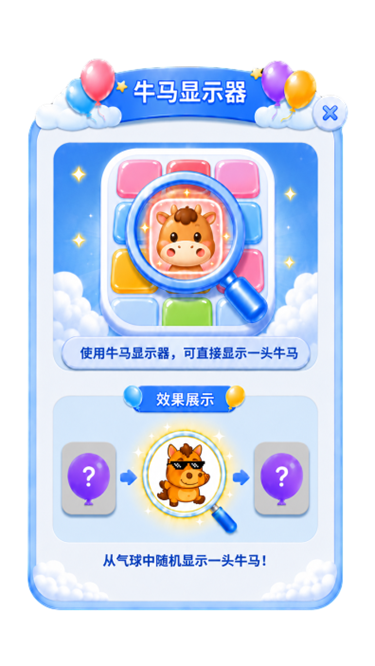
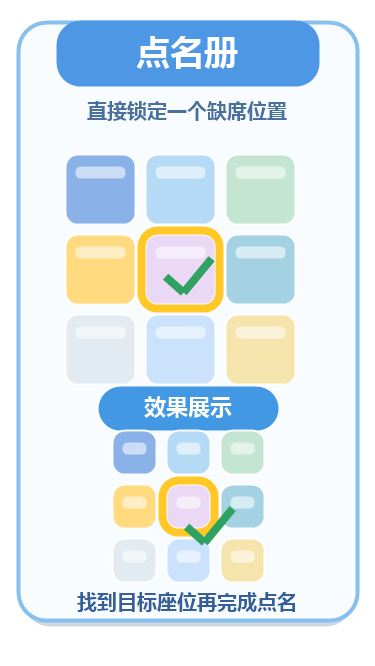
修复点名提示弹窗与失败页样式

diff --git a/assets/DrawGridModules/DrawGridHud.ts b/assets/DrawGridModules/DrawGridHud.ts
@@ -1684,7 +1684,7 @@ export function installDrawGridHud(target: any): void {
     getHintKindDescription: function (kind: HintKind): string {
         return kind === 'cow'
             ? '使用点名册，可以直接确认\n一个缺席位置。'
-            : '卡住了？立刻显示\n您的下一步。';
+            : '卡住了？立刻排除\n一批错误座位。';
     },
     applyHintPurchaseIcon: function (card: Node, kind: HintKind): void {
         const iconNode = card.getChildByName('HintPurchaseVisualPanel')?.getChildByName('HintPurchaseIcon');
@@ -1733,6 +1733,74 @@ export function installDrawGridHud(target: any): void {
             if (toast.isValid) toast.destroy();
         }).start();
     },
+    drawHintPurchaseVisualBackdrop: function (visualPanel: Node, kind: HintKind): void {
+        const g = visualPanel.getComponent(Graphics) || visualPanel.addComponent(Graphics);
+        g.clear();
+        g.fillColor = new Color(232, 244, 255, 255);
+        g.roundRect(-226, -116, 452, 232, 28);
+        g.fill();
+        g.strokeColor = new Color(139, 190, 238, 210);
+        g.lineWidth = 3;
+        g.roundRect(-224, -114, 448, 228, 26);
+        g.stroke();
+
+        g.strokeColor = new Color(178, 216, 246, 135);
+        g.lineWidth = 2;
+        for (let y = 70; y >= -70; y -= 46) {
+            g.moveTo(-190, y);
+            g.lineTo(190, y);
+        }
+        g.stroke();
+
+        const cell = 34;
+        const gap = 8;
+        const startX = -cell * 1.5 - gap;
+        const startY = cell + gap;
+        const colors = [
+            new Color(139, 177, 233, 255),
+            new Color(179, 216, 242, 255),
+            new Color(196, 229, 209, 255),
+            new Color(255, 218, 126, 255),
+            new Color(226, 205, 241, 255),
+            new Color(164, 207, 224, 255),
+            new Color(229, 236, 242, 255),
+            new Color(202, 224, 248, 255),
+            new Color(246, 230, 171, 255),
+        ];
+        for (let row = 0; row < 3; row++) {
+            for (let col = 0; col < 3; col++) {
+                const idx = row * 3 + col;
+                const x = startX + col * (cell + gap);
+                const y = startY - row * (cell + gap);
+                g.fillColor = colors[idx];
+                g.roundRect(x, y, cell, cell, 8);
+                g.fill();
+                g.fillColor = new Color(255, 255, 255, 155);
+                g.roundRect(x + 7, y + 7, cell - 14, 7, 4);
+                g.fill();
+            }
+        }
+
+        if (kind === 'cow') {
+            g.strokeColor = new Color(255, 199, 40, 255);
+            g.lineWidth = 6;
+            g.roundRect(startX + cell + gap - 4, startY - cell - gap - 4, cell + 8, cell + 8, 10);
+            g.stroke();
+        } else {
+            g.strokeColor = new Color(239, 82, 88, 255);
+            g.lineWidth = 5;
+            const markCells = [[0, 1], [2, 0], [2, 2]];
+            for (const pos of markCells) {
+                const x = startX + pos[1] * (cell + gap);
+                const y = startY - pos[0] * (cell + gap);
+                g.moveTo(x + 9, y + 9);
+                g.lineTo(x + cell - 9, y + cell - 9);
+                g.moveTo(x + cell - 9, y + 9);
+                g.lineTo(x + 9, y + cell - 9);
+            }
+            g.stroke();
+        }
+    },
     openHintPurchasePanel: function (kind: HintKind): void {
         const canvas = director.getScene()?.getChildByName('Canvas') || this.node.parent || this.node;
         if (!canvas) return;
@@ -1754,43 +1822,51 @@ export function installDrawGridHud(target: any): void {
             this.closeHintPurchasePanel();
         }, this);
 
-        const card = createRoundedCard('HintPurchaseCard', root, 510, 540, new Color(255, 255, 255, 252), 28, 5, 38);
+        const card = createRoundedCard('HintPurchaseCard', root, 536, 596, new Color(248, 252, 255, 252), 30, 4, 34);
         card.setPosition(0, 0, 0);
         this.blockNodeTouch(card);
 
-        const title = createLabel('HintPurchaseTitle', card, '', 34, new Color(42, 62, 100, 255), true);
-        title.node.getComponent(CcUITransform)?.setContentSize(430, 50);
+        const headerBand = createNode('HintPurchaseHeaderBand', card);
+        headerBand.getComponent(CcUITransform)?.setContentSize(448, 76);
+        headerBand.setPosition(0, 224, 0);
+        const headerG = headerBand.addComponent(Graphics);
+        headerG.fillColor = new Color(74, 146, 226, 255);
+        headerG.roundRect(-224, -38, 448, 76, 22);
+        headerG.fill();
+        headerG.fillColor = new Color(255, 255, 255, 45);
+        headerG.roundRect(-206, 5, 412, 20, 10);
+        headerG.fill();
+
+        const title = createLabel('HintPurchaseTitle', card, '', 38, COLOR_WHITE, true);
+        title.node.getComponent(CcUITransform)?.setContentSize(390, 58);
         title.node.setPosition(0, 224, 0);
 
-        const desc = createLabel('HintPurchaseDesc', card, '', 25, new Color(112, 130, 145, 255));
-        desc.node.getComponent(CcUITransform)?.setContentSize(450, 72);
+        const desc = createLabel('HintPurchaseDesc', card, '', 26, new Color(59, 95, 143, 255), true);
+        desc.node.getComponent(CcUITransform)?.setContentSize(450, 74);
         desc.node.setPosition(0, 154, 0);
-        desc.lineHeight = 32;
+        desc.lineHeight = 34;
         desc.overflow = Label.Overflow.SHRINK;
 
         const visualPanel = createNode('HintPurchaseVisualPanel', card);
-        visualPanel.getComponent(CcUITransform)?.setContentSize(438, 220);
-        visualPanel.setPosition(0, -32, 0);
-        const visualG = visualPanel.addComponent(Graphics);
-        visualG.fillColor = new Color(102, 113, 164, 255);
-        visualG.roundRect(-219, -110, 438, 220, 28);
-        visualG.fill();
+        visualPanel.getComponent(CcUITransform)?.setContentSize(452, 232);
+        visualPanel.setPosition(0, 8, 0);
+        this.drawHintPurchaseVisualBackdrop?.(visualPanel, kind);
 
         const iconNode = createNode('HintPurchaseIcon', visualPanel);
         iconNode.getComponent(CcUITransform)?.setContentSize(136, 136);
-        iconNode.setPosition(0, 0, 0);
+        iconNode.setPosition(96, 0, 0);
         iconNode.addComponent(Sprite);
 
         const buyBtn = createNode('HintPurchaseBuyBtn', card);
-        buyBtn.getComponent(CcUITransform)?.setContentSize(190, 64);
-        buyBtn.setPosition(-112, -188, 0);
+        buyBtn.getComponent(CcUITransform)?.setContentSize(204, 68);
+        buyBtn.setPosition(-118, -226, 0);
         const buyG = buyBtn.addComponent(Graphics);
         buyG.fillColor = new Color(54, 139, 232, 255);
-        buyG.roundRect(-95, -32, 190, 64, 32);
+        buyG.roundRect(-102, -34, 204, 68, 34);
         buyG.fill();
         buyG.strokeColor = new Color(158, 220, 255, 230);
         buyG.lineWidth = 3;
-        buyG.roundRect(-92, -29, 184, 58, 29);
+        buyG.roundRect(-99, -31, 198, 62, 31);
         buyG.stroke();
         const coinIcon = createNode('HintPurchaseCoinIcon', buyBtn);
         coinIcon.getComponent(CcUITransform)?.setContentSize(34, 34);
@@ -1812,15 +1888,15 @@ export function installDrawGridHud(target: any): void {
         }, this);
 
         const adBtn = createNode('HintPurchaseAdBtn', card);
-        adBtn.getComponent(CcUITransform)?.setContentSize(190, 64);
-        adBtn.setPosition(112, -188, 0);
+        adBtn.getComponent(CcUITransform)?.setContentSize(204, 68);
+        adBtn.setPosition(118, -226, 0);
         const adG = adBtn.addComponent(Graphics);
         adG.fillColor = new Color(255, 171, 22, 255);
-        adG.roundRect(-95, -32, 190, 64, 32);
+        adG.roundRect(-102, -34, 204, 68, 34);
         adG.fill();
         adG.strokeColor = new Color(255, 220, 124, 230);
         adG.lineWidth = 3;
-        adG.roundRect(-92, -29, 184, 58, 29);
+        adG.roundRect(-99, -31, 198, 62, 31);
         adG.stroke();
         const playIcon = createNode('HintPurchasePlayIcon', adBtn);
         playIcon.getComponent(CcUITransform)?.setContentSize(42, 32);
@@ -1846,7 +1922,7 @@ export function installDrawGridHud(target: any): void {
 
         const closeBtn = createNode('HintPurchaseCloseBtn', card);
         closeBtn.getComponent(CcUITransform)?.setContentSize(58, 58);
-        closeBtn.setPosition(218, 224, 0);
+        closeBtn.setPosition(220, 250, 0);
         const closeG = closeBtn.addComponent(Graphics);
         closeG.fillColor = new Color(236, 242, 252, 255);
         closeG.circle(0, 0, 29);

diff --git a/assets/FailPanel.ts b/assets/FailPanel.ts
@@ -16,7 +16,6 @@ const { ccclass } = _decorator;
 
 const FAIL_RED = new Color(63, 132, 232, 255);
 const GOLD = new Color(255, 207, 42, 255);
-const TEXT_SHADOW = new Color(0, 0, 0, 115);
 const REVIVE_BUTTON_WIDTH = 336;
 const REVIVE_BUTTON_HEIGHT = 96;
 const REVIVE_BUTTON_Y_OFFSET = 150;
@@ -115,8 +114,6 @@ export default class FailPanel extends Component {
 
     private createShadowLabel(name: string, parent: Node, text: string, fontSize: number, color: Color, bold = false): Node {
         const root = createNode(name, parent);
-        const shadow = createLabel(`${name}Shadow`, root, text, fontSize, TEXT_SHADOW, bold);
-        shadow.node.setPosition(3, -4, 0);
         const label = createLabel(`${name}Label`, root, text, fontSize, color, bold);
         label.node.setPosition(0, 0, 0);
         return root;

diff --git a/README.md b/README.md
@@ -223,14 +223,20 @@
 - 胜利结算和成功反馈也可能在 `WinPanel.ts` 或 `DrawGridModules` 里。
 - 只改 `FailPanel.ts` 会漏掉每日挑战失败、生存失败、普通胜利等页面。
 - 这些页面通常是代码 `Graphics` 绘制，不一定有独立图片资源可换。
+- 失败页大标题、统计数字等不建议额外叠黑色文字阴影；小屏里阴影容易像“多了一层脏字”，尤其是 `未点到 6` 这类数字。
 
 ### 13. 提示框和设置弹窗也算换皮范围
 
 - 通用提示框：`assets/PopupPanel.ts`
 - 设置弹窗：`assets/SettingPanel.ts`
 - 提示购买/解锁弹窗：`assets/DrawGridModules/DrawGridHud.ts`
+- 提示解锁大图资源：
+  - `assets/RemoteBundle/guide/second_hint_unlock.png`
+  - `assets/RemoteBundle/guide/fourth_hint_unlock.png`
+- 关卡内点击 `点名册/提示` 后弹出的购买面板，不走 `PopupPanel.ts`，而是 `DrawGridHud.ts` 里的 `HintPurchasePanel`。
+- 第 2 关/第 4 关触发的提示解锁页，主要显示的是 `RemoteBundle/guide` 下的整张 PNG；只改代码文案不会改变这两页视觉。
 - 这些弹窗容易被漏掉，因为它们不是首页资源，也不一定在截图第一眼出现。
-- 每个主题至少要打开一次设置、提示、退出确认，检查是否仍是原版 UI 和旧文案。
+- 每个主题至少要打开一次设置、提示、退出确认、提示购买面板，并触发一次提示解锁页，检查是否仍是原版 UI、旧主题图片或旧文案。
 
 ### 14. 广告和分享失败不能静默
 